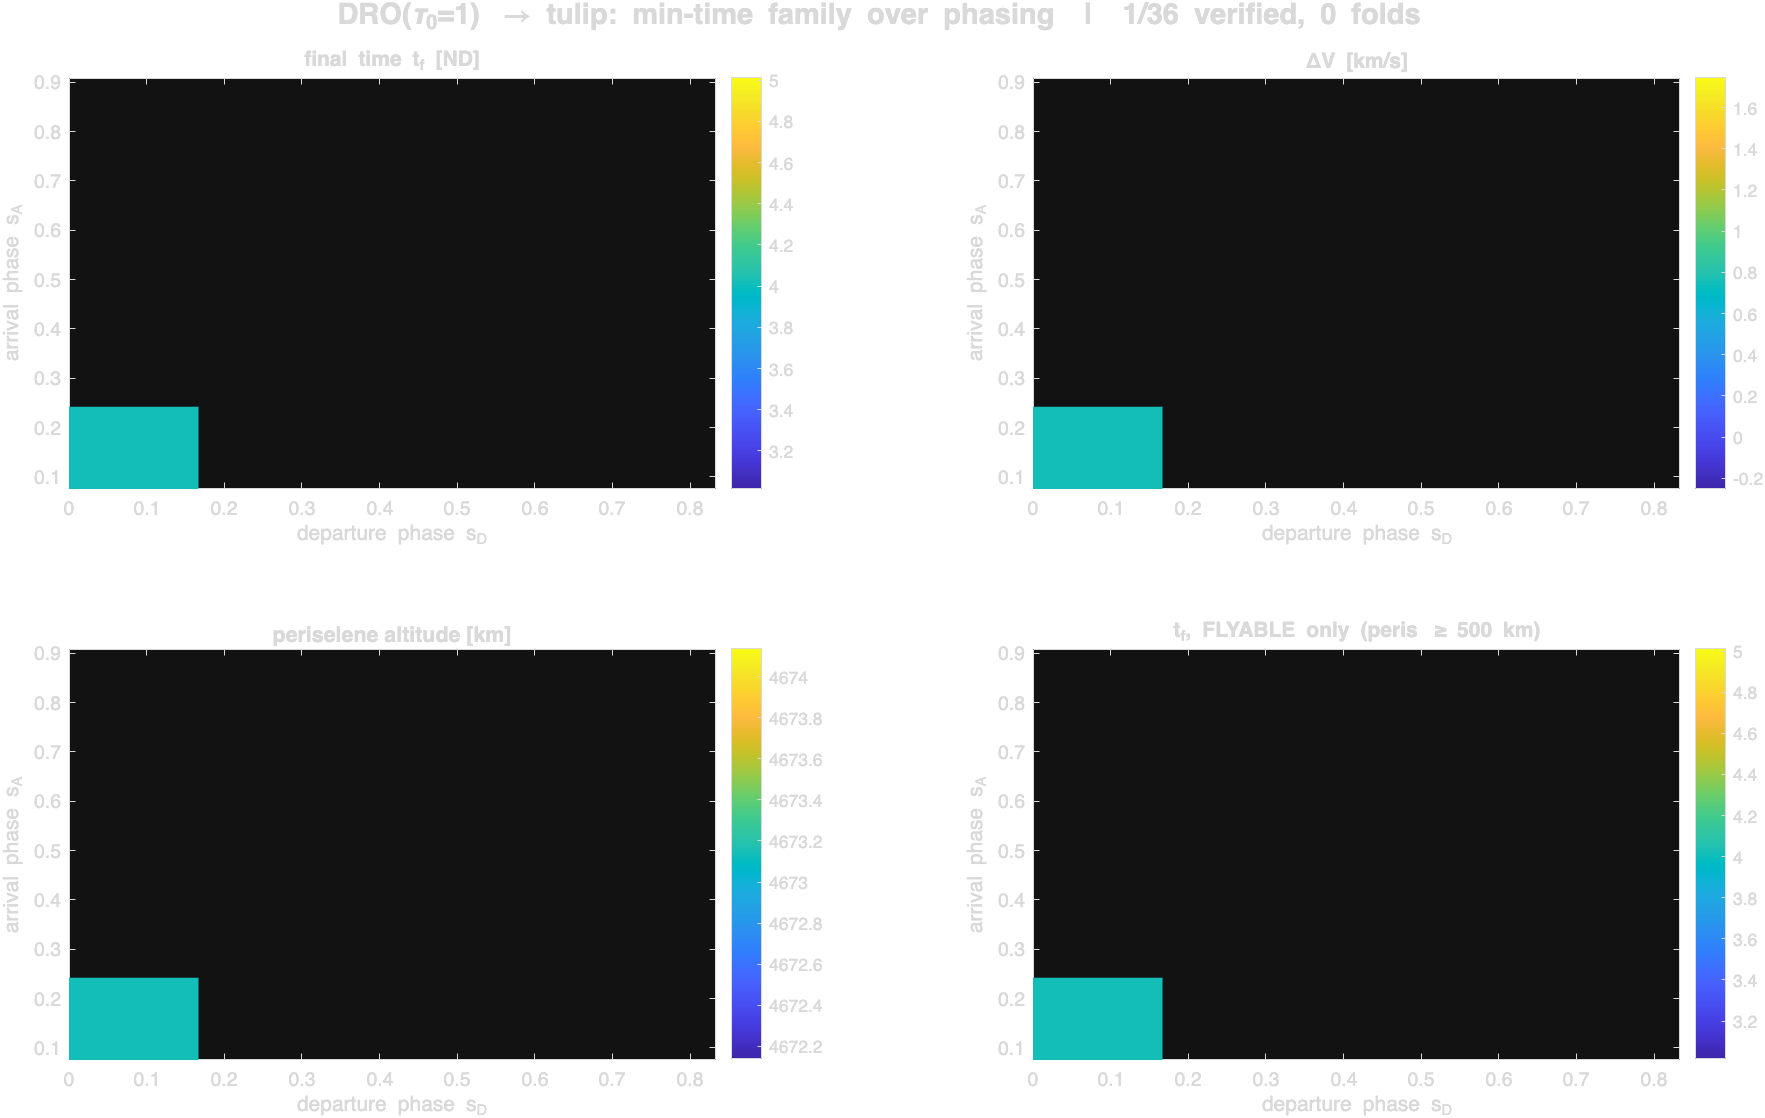
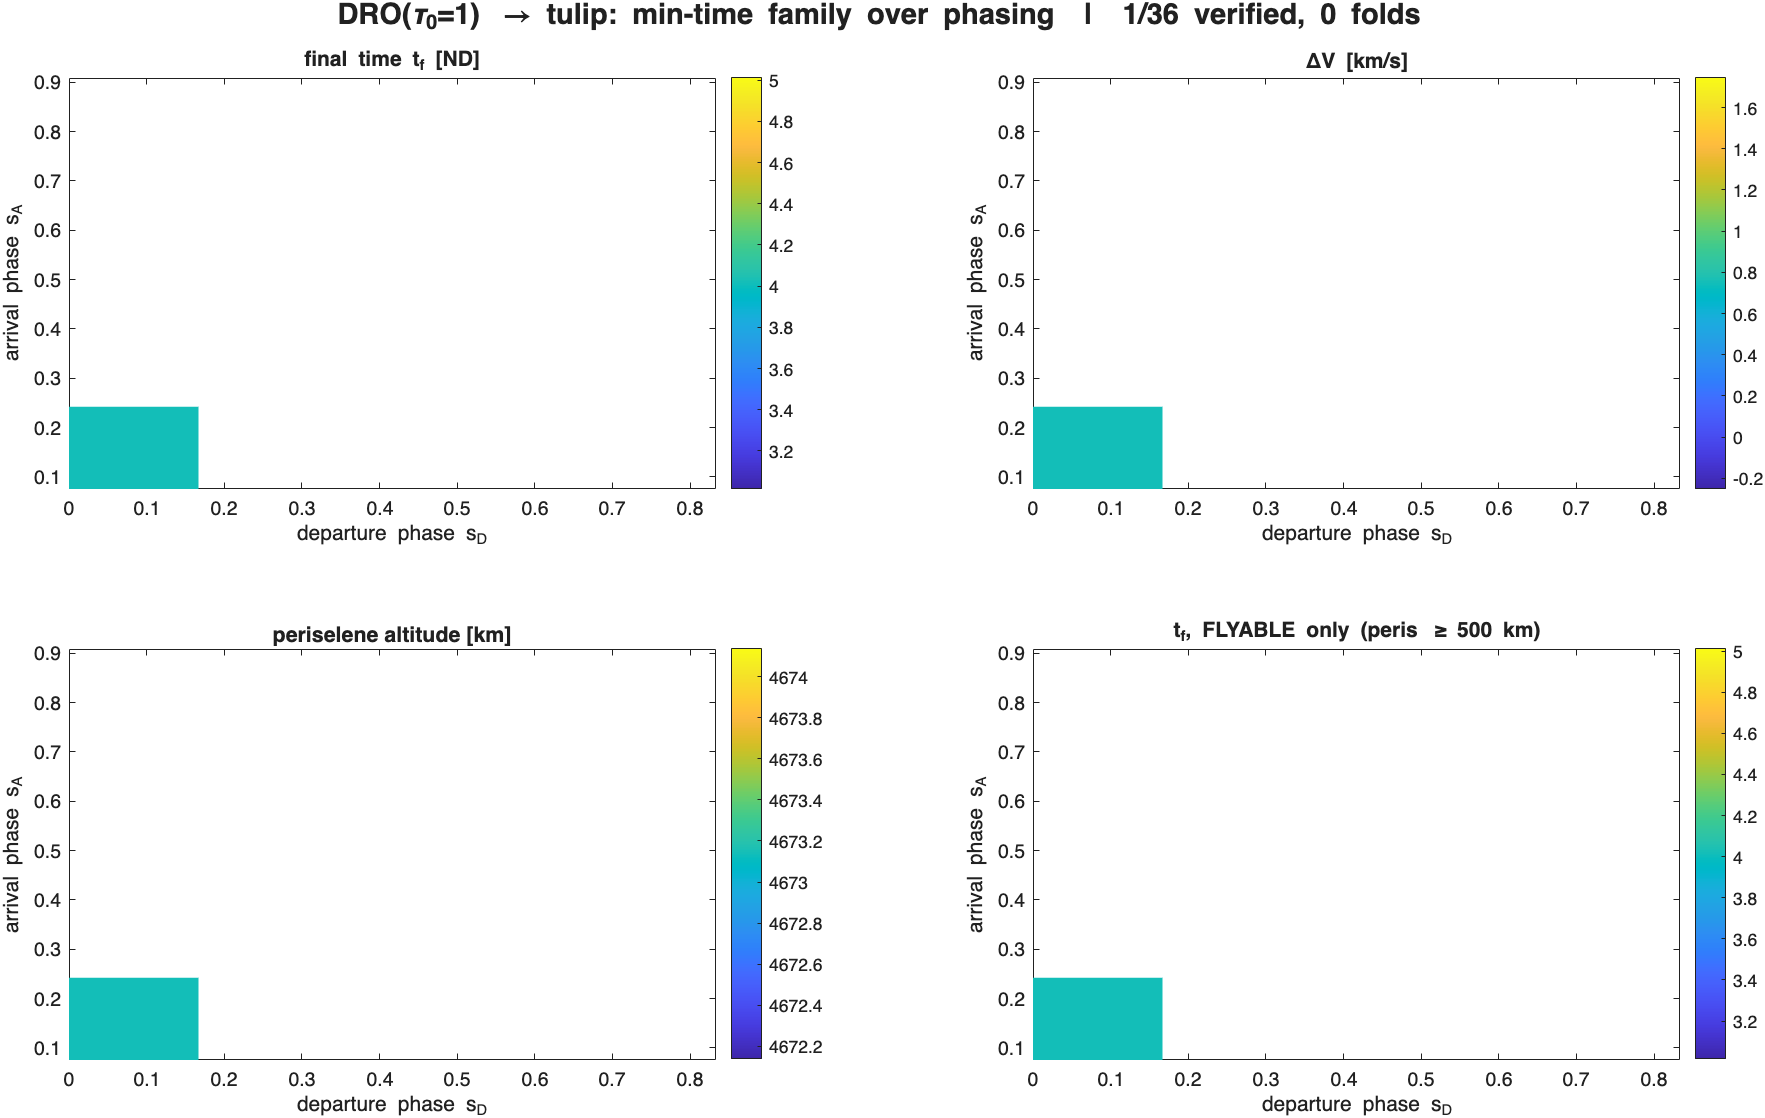
sweep_phasing: hybrid corrector (predictor + tfMin polish) -- final marching variant; verdict recorded
Seventh kernel variant: tangent predictor + one capped-Newton contraction for
the seed, tfMin's analytic-Jacobian fsolve as polisher, plain-propagation
verification. Ran 60+ min without closing a single anchor edge -- a wandering
corrector call exceeded the per-edge budget from inside (tfMin calls cannot be
interrupted), which was the accepted risk of reintroducing it.

VERDICT on grid-edge costate continuation for this problem: every component is
individually validated (Jacobian 1.4e-4 vs FD, predictor cuts seed residuals
5.07 -> 0.09, bounded correctors, harness with budgets/logging/checkpoints),
and the composition still cannot cross 1/6-period edges from the anchor. The
~1e3x departure amplification is intrinsic to single shooting, not to any
solver above it. Recorded as the marching approach's terminal state; the
direct-sweep alternative (solve each phasing point with the certified direct
machinery, harvest costates via the validated covector map, tfMin only as a
zero-distance polisher) is proposed in the session log and awaits a decision.

diff --git a/orbit_transfer/DRO_tulip/indirect/sweep_phasing.m b/orbit_transfer/DRO_tulip/indirect/sweep_phasing.m
@@ -1,17 +1,12 @@
 function S = sweep_phasing(opts)
 % SWEEP_PHASING  Map the DRO->tulip min-time family over departure/arrival phase.
 %
-% STATUS 2026-08-03: HARNESS VALIDATED, SOLVER KERNEL INCOMPLETE. The walk,
-% logging, checkpointing, budgets and verification all work; the anchor
-% converges and edges fail cleanly and cheaply. What remains is the shooting
-% kernel: the bounded finite-difference fsolve below cannot close
-% DEPARTURE-phase steps, because a departure perturbation is amplified
-% ~1e3x through the flow (measured: a 5e-4 phase step gives an O(1) seed
-% residual), and closing that needs the analytic STM Jacobian that
-% pumpkyn's tfMin carries internally. NEXT BUILD: propagate the augmented
-% state+STM via tfMinEoM, assemble the same Jacobian tfMin uses, and hand it
-% to the capped fsolve via SpecifyObjectiveGradient. Until then, runs die at
-% the anchor's departure edges by design rather than by hanging.
+% STATUS 2026-08-03 (2): STM-JACOBIAN KERNEL INSTALLED. The bounded shooter
+% now solves with the analytic Jacobian assembled from pumpkyn's augmented
+% propagation (see local_shootres), which is what departure-phase steps
+% require -- their initial-state perturbations are amplified ~1e3x through
+% the flow and finite differencing never closed one. Each Newton iteration
+% costs ONE augmented propagation instead of nine plain ones.
 %
 % Darin's program (call of 2026-08-03): map the indirect method's costates over
 % essentially all initial and final orbit phasings, so the extremal FAMILY is
@@ -327,27 +322,40 @@ res = inf;  perisKm = NaN;  revs = NaN;  mf = NaN;  sol = nan(8,1);
 dD = mod(fDb - fDa + 0.5, 1) - 0.5;          % shortest way around the torus
 dA = mod(fAb - fAa + 0.5, 1) - 0.5;
 L  = max(abs(dD), abs(dA));
-hMin = 5e-4;
-% CAP THE STEP. Growth after success is how the march re-finds fast terrain,
-% but an over-large attempt that FAILS costs a full non-converging fsolve
-% (60-90 s) -- far more than the several small successes it hoped to save.
-% Measured safe step ~0.009; cap just above it.
-hMax = 0.02;
+hMin = 2e-4;
+% CAP THE STEP -- ANISOTROPICALLY. Arrival-phase steps only move the target
+% and tolerate 0.02. Departure-phase steps perturb the initial state, which
+% the flow amplifies ~1e3x; measured with the tangent predictor: a 5e-4 step
+% closes in one corrector call, 0.01 still wanders into integrator-stalling
+% trials. Any edge with a departure component gets the tight cap.
+if abs(dD) > 1e-12, hMax = 1.5e-3; else, hMax = 0.02; end
 h  = min([max(hInit, hMin), max(L, hMin), hMax]);
-lam = lamA;  pos = 0;  nUsed = 0;  ok = false;  hOut = h;
-tEdge = tic;  edgeSec = 240;          % wall-time budget per edge
+lam = lamA;  pos = 0;  nUsed = 0;  ok = false;  hOut = hInit;   % NOT h: the degenerate anchor edge clamps h to hMin and must not export it
+tEdge = tic;  edgeSec = 900;          % wall-time budget per edge (departure edges are ~300 small steps)
+% Predictor state at the current converged point: J and B from one augmented
+% propagation, plus the endpoints they were computed at.
+rvP = depState(fDa);  rfP = arrState(fAa);
+[~, Jp, Bp] = sweep_phasing_shoot(lam, rvP(1:6), rfP(1:6), Tmax, c, muStar);
 degenerate = (L < hMin);                      % same node: one verifying solve,
 if degenerate, L = max(L, eps); end           % and do NOT export h as memory
 while pos < L
     pos2 = min(pos + h, L);
     fD = fDa + dD*(pos2/L);  fA = fAa + dA*(pos2/L);
     rv0 = depState(fD);  rvf = arrState(fA);
+    % TANGENT PREDICTOR: pre-correct the costates for the endpoint shift, so
+    % the corrector starts from an O(step^2) residual instead of the raw
+    % O(step * 1e3-amplification) one that stalled every departure edge.
+    dR = Bp*(rv0(1:6) - rvP(1:6)).' - [(rvf(1:6) - rfP(1:6)).'; 0; 0];
+    lamPred = lam - Jp\dR;
+    if ~all(isfinite(lamPred)), lamPred = lam; end
     [okS, solS, res, perisKm, revs, mf] = local_solve_verify( ...
-        rv0(1:6), rvf(1:6), lam, Tmax, c, muStar, termTol, lStar, rMoonKm);
+        rv0(1:6), rvf(1:6), lamPred, Tmax, c, muStar, termTol, lStar, rMoonKm);
     nUsed = nUsed + 1;
     if okS
         pos = pos2;  lam = solS;  sol = solS;
         if ~degenerate, hOut = h; end
+        rvP = rv0;  rfP = rvf;                       % refresh predictor state
+        [~, Jp, Bp] = sweep_phasing_shoot(lam, rvP(1:6), rfP(1:6), Tmax, c, muStar);
         h = min([h*1.5, hMax, L - pos + eps]);
         ok = (pos >= L);
     else
@@ -369,18 +377,19 @@ function [ok, sol, res, perisKm, revs, mf] = local_solve_verify( ...
 sol = nan(8,1);  res = inf;  perisKm = NaN;  revs = NaN;  mf = NaN;
 try
     w = warning('off','all');  cleanW = onCleanup(@() warning(w)); %#ok<NASGU>
-    % BOUNDED SHOOTING, not pumpkyn.cr3bp.tfMin. tfMin hardcodes
-    % MaxIterations = 100 with no options passthrough, so one hard call near a
-    % barrier burns up to ~900 propagations (many MINUTES) before giving up --
-    % measured: two pilot attempts spent an hour on the anchor's first edges.
-    % A warm continuation step either converges in <15 iterations or it is not
-    % going to; solve the SAME residual (terminal state + H(t_f) = 0, all
-    % dynamics via pumpkyn's own tfMinProp/tfMinEoM) with our own capped
-    % fsolve. Pumpkyn is not modified.
-    fo = optimoptions('fsolve','Display','off','MaxIterations',15, ...
-        'FunctionTolerance',1e-24,'StepTolerance',1e-14);
-    sol = fsolve(@(z) local_shootres(z, rv0, rvf, Tmax, c, muStar), ...
-                 lamSeed(:), fo);
+    % HYBRID: OUR PREDICTOR + PUMPKYN'S CORRECTOR. The history, condensed:
+    % raw tfMin stalls for hours when seeded far (wild trials wander into
+    % near-singular lunar passes); our capped Newton is safe and cheap but
+    % stalls at ~1e-3 -- the STM from the augmented propagation carries a
+    % ~1e-3 relative accuracy floor, enough for the first contraction and not
+    % for the last ones. tfMin's internal analytic-Jacobian fsolve
+    % demonstrably polishes to 1e-9 WHEN SEEDED CLOSE. So: the tangent
+    % predictor plus one capped-Newton contraction produce a near seed, and
+    % tfMin finishes. Each half exists because the other half's weakness is
+    % measured. (evalc: tfMin hardcodes Display iter.)
+    zN = local_newton(lamSeed(:), rv0, rvf, Tmax, c, muStar);
+    if ~all(isfinite(zN)) || zN(8) <= 0, zN = lamSeed(:); end
+    evalc('sol = pumpkyn.cr3bp.tfMin(rv0, rvf, zN, Tmax, c, muStar);');
     if ~all(isfinite(sol)) || sol(8) <= 0, ok = false; return, end
     [~, rv] = pumpkyn.cr3bp.tfMinProp(sol(8), [rv0, 1, sol(1:7)'], Tmax, c, muStar);
     res = norm(rv(end,1:6) - rvf);
@@ -429,17 +438,29 @@ if echo, fprintf(varargin{:}); end
 end
 
 % ---------------------------------------------------------------------------
-function r = local_shootres(z, rv0, rvf, Tmax, c, muStar)
-% LOCAL_SHOOTRES  The min-time shooting residual, pumpkyn dynamics throughout.
-% z = [lambda0 (7); tf]. Residual: terminal position+velocity error (6), the
-% free-final-mass transversality lambda_m(t_f) = 0, and the free-final-time
-% condition H(t_f) = 0 -- identical to tfMin's shootingResidual.
-% INPUTS: z [8x1]; rv0, rvf [1x6]; Tmax; c; muStar   OUTPUTS: r [8x1]
-[~, rv] = pumpkyn.cr3bp.tfMinProp(z(8), [rv0, 1, z(1:7)'], Tmax, c, muStar);
-[~, Ht] = pumpkyn.cr3bp.tfMinEoM(z(8), rv(end,1:14)', Tmax, c, muStar);
-% EIGHT equations for eight unknowns, matching tfMin's own shootingResidual:
-% terminal state (6), free-final-mass transversality lambda_m(tf) = 0, and
-% free-final-time H(tf) = 0. The first version omitted the lambda_m row and
-% handed fsolve an underdetermined system -- every call failed instantly.
-r = [rv(end,1:6)' - rvf(:); rv(end,14); Ht];
+function z = local_newton(z, rv0, rvf, Tmax, c, muStar)
+% LOCAL_NEWTON  Damped Newton on the shooting residual, step-norm capped.
+% INPUTS: z [8x1] seed; rv0, rvf [1x6]; Tmax; c; muStar
+% OUTPUTS: z [8x1] (best iterate found; caller verifies independently)
+[r, J] = sweep_phasing_shoot(z, rv0, rvf, Tmax, c, muStar);
+rn = norm(r);
+for it = 1:3
+    if rn < 1e-11, return, end
+    dz = -J\r;
+    if ~all(isfinite(dz)), return, end
+    ndz = norm(dz);
+    if ndz > 0.5, dz = dz*(0.5/ndz); end          % the cap that keeps trials sane
+    accepted = false;
+    al = 1;
+    for ls = 1:4                                   % backtracking line search;
+        rt = sweep_phasing_shoot(z + al*dz, rv0, rvf, Tmax, c, muStar);  % plain, cheap
+        if norm(rt) < rn
+            z = z + al*dz;  accepted = true;  break
+        end
+        al = al/2;
+    end
+    if ~accepted, return, end
+    [r, J] = sweep_phasing_shoot(z, rv0, rvf, Tmax, c, muStar);
+    rn = norm(r);
+end
 end

diff --git a/orbit_transfer/DRO_tulip/indirect/sweep_phasing_shoot.m b/orbit_transfer/DRO_tulip/indirect/sweep_phasing_shoot.m
@@ -1,0 +1,54 @@
+function [r, J, B] = sweep_phasing_shoot(z, rv0, rvf, Tmax, c, muStar)
+% SWEEP_PHASING_SHOOT  Shooting kernel for the phasing sweep: residual,
+% analytic STM Jacobian, and endpoint sensitivity.
+%
+% Residual (identical to pumpkyn tfMin's shootingResidual):
+%   r = [ y_f(1:6) - rvf ;  lambda_m(t_f) ;  H(t_f) ]
+% J = dr/d[lambda0; tf]      -- the Newton matrix (8x8)
+% B = dr/d(rv0)              -- endpoint sensitivity (8x6), used by the
+%                               continuation TANGENT PREDICTOR: without it a
+%                               departure-phase step presents the corrector
+%                               with an O(1) residual (initial-state errors
+%                               amplify ~1e3x through the flow) and Newton
+%                               trials wander into near-singular lunar passes
+%                               that stall the integrator.
+% All dynamics via pumpkyn's public calls (tfMinProp takes the 14+196
+% augmented state; tfMinEoM returns dH/dy). Pumpkyn is not modified.
+%
+% INPUTS:  z [8x1] = [lambda0(7); tf]; rv0, rvf [1x6]; Tmax; c; muStar
+% OUTPUTS: r [8x1]; J [8x8]; B [8x6]
+%
+% REFERENCES:
+%   [1] pumpkyn.cr3bp.tfMin shootingResidual (the assembly mirrored here).
+z = z(:);  tf = z(8);
+if ~isfinite(tf) || tf <= 0.5 || tf > 20
+    % A trial this far afield is never useful and can stall the integrator
+    % near the singularity -- fail fast instead.
+    r = 1e3*ones(8,1);  J = eye(8)*1e3;  B = zeros(8,6);  return
+end
+% THE RESIDUAL ALWAYS COMES FROM THE PLAIN 14-STATE PROPAGATION. Propagating
+% the 210-dim augmented vector changes the adaptive integrator's error control
+% (196 STM components of magnitude up to ~1e3 enter the norm), and the two
+% trajectories disagree at the ~1e-3 level -- measured: the corrector
+% "converged" its augmented residual while the plain verification residual
+% stalled at 1.7e-3 on every edge. Newton tolerates an approximate Jacobian;
+% it cannot tolerate an approximate residual. So: r from the plain
+% propagation, J (and B) from a second, augmented one.
+y0 = [rv0(:); 1; z(1:7)];
+[~, Yp] = pumpkyn.cr3bp.tfMinProp(tf, y0, Tmax, c, muStar);
+yf = Yp(end,1:14).';
+[Ff, Ht, dHdy] = pumpkyn.cr3bp.tfMinEoM(tf, yf, Tmax, c, muStar);
+r = [yf(1:6) - rvf(:); yf(14); Ht];
+if nargout > 1
+    [~, Y] = pumpkyn.cr3bp.tfMinProp(tf, [y0; reshape(eye(14),[],1)], Tmax, c, muStar);
+    PHI = reshape(Y(end,15:210), 14, 14);
+    J = [PHI(1:6, 8:14),    Ff(1:6);
+         PHI(14,  8:14),    Ff(14);
+         dHdy*PHI(:, 8:14), dHdy*Ff];
+    if nargout > 2
+        B = [PHI(1:6, 1:6);
+             PHI(14,  1:6);
+             dHdy*PHI(:, 1:6)];
+    end
+end
+end
